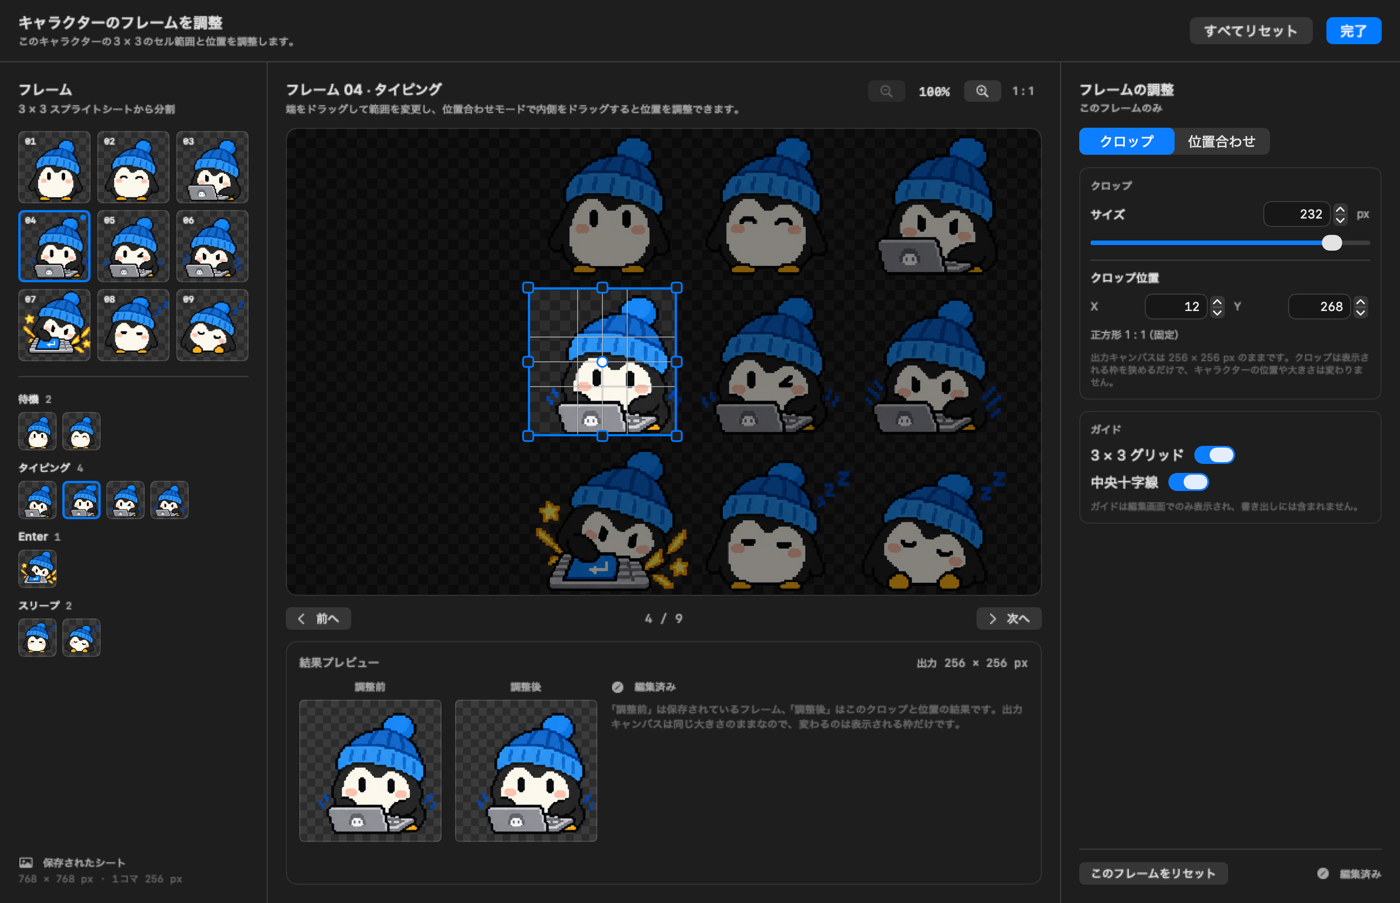
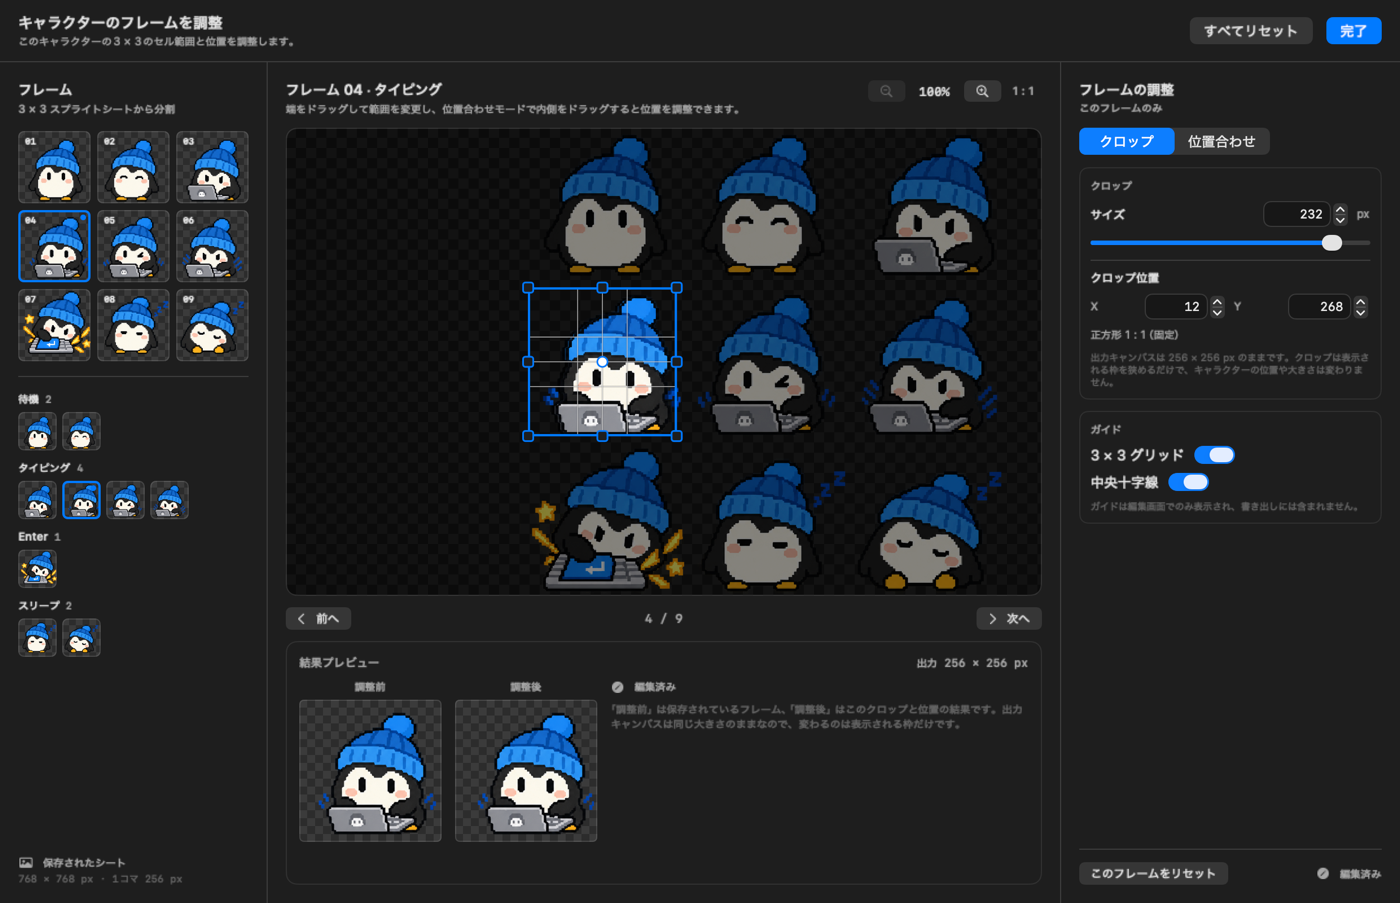
fix(character): keep every crop resize stationary and match canvas export (#151)
Address the pullfrog review findings that are still reproducible on the fixed
canvas editor:

- Handle resize is now centre-anchored (size changes by twice the drag delta, so
  the grabbed edge still follows the pointer) instead of anchoring the opposite
  edge. Resizing therefore only changes the visible mask; surviving pixels keep
  their exported coordinates. Added a renderer regression covering shrink and
  grow with the same source pixel at the same canvas position.
- The precision canvas no longer translates the entire sheet under a stationary
  crop frame. It now draws the dimmed sheet as context, then the selected crop
  pixels as the aligned bright foreground, clipped to the source crop and to the
  fixed output canvas. Neighbouring-cell pixels can no longer appear as selected
  content, and the foreground matches After/export for nonzero offsets.
- The align snapshot now creates its neighbour warning by panning the crop over
  the cell boundary (the old size override was silently capped).
- Add a defensive test that even if a host opened the editor for an unsupported
  legacy frame layout, composing/staging is impossible and the draft cannot be
  truncated. Custom layouts remain blocked in the UI with re-import guidance.

The legacy-surplus finding is therefore resolved by the existing capability
gate (plus the new no-truncation test) rather than by allowing nine-slot edits
that cannot preserve arbitrary extra frames.
[…]

diff --git a/Sources/WaddlyApp/FrameEditorCanvasGeometry.swift b/Sources/WaddlyApp/FrameEditorCanvasGeometry.swift
@@ -99,15 +99,25 @@ extension FrameCanvasNSView {
             width: configuration.sourceSide,
             height: configuration.sourceSide
         )
-        let offset = CGPoint(
-            x: CGFloat(configuration.adjustment.offsetX) * layout.scale,
-            y: CGFloat(configuration.adjustment.offsetY) * layout.scale
-        )
-        NSImage(cgImage: source, size: NSSize(width: source.width, height: source.height))
-            .draw(in: viewRect(for: sourceRect, layout: layout).offsetBy(dx: offset.x, dy: offset.y))
+        let sourceViewRect = viewRect(for: sourceRect, layout: layout)
 
+        // Dimmed sheet context. It stays at its source coordinates so the crop handles, guides and
+        // crosshair remain stable while the selected content moves inside them.
+        drawImage(source, in: sourceViewRect, context: context)
+        drawDimmingOverContext(in: context)
+
+        // Bright foreground: only the selected source window, translated by the alignment offset.
+        // This is exactly the foreground `SpriteFrameRenderer.renderCanvas` exports; neighbouring
+        // sheet pixels outside the crop never become visible inside it.
         let cropRect = cropViewRect(layout: layout)
-        drawDimming(outside: cropRect, in: context)
+        drawAlignedCrop(
+            source,
+            sourceViewRect: sourceViewRect,
+            cropRect: cropRect,
+            configuration: configuration,
+            context: context
+        )
+
         if configuration.showsGrid {
             drawGrid(in: cropRect, context: context)
         }
@@ -116,6 +126,46 @@ extension FrameCanvasNSView {
         }
         drawCropBorder(in: cropRect, context: context, warning: configuration.showsWarning)
         drawHandles(in: cropRect, context: context)
+    }
+
+    private func drawImage(_ image: CGImage, in rect: CGRect, context: NSGraphicsContext) {
+        context.imageInterpolation = .none
+        NSImage(cgImage: image, size: NSSize(width: image.width, height: image.height)).draw(in: rect)
+    }
+
+    /// Draws the crop's own pixels shifted by the alignment offset, clipped to the source crop and
+    /// to the fixed output canvas, exactly like the exported frame's foreground.
+    private func drawAlignedCrop(
+        _ source: CGImage,
+        sourceViewRect: CGRect,
+        cropRect: CGRect,
+        configuration: FrameCanvasConfiguration,
+        context: NSGraphicsContext
+    ) {
+        let scale = configuration.sourceSide > 0
+            ? sourceViewRect.width / CGFloat(configuration.sourceSide)
+            : 1
+        let offset = CGPoint(
+            x: CGFloat(configuration.adjustment.offsetX) * scale,
+            y: CGFloat(configuration.adjustment.offsetY) * scale
+        )
+        let outputSide = configuration.canvasSide > 0
+            ? configuration.canvasSide
+            : (configuration.nominalCell?.size ?? configuration.sourceSide)
+        let outputRect = CGRect(
+            x: cropRect.midX - CGFloat(outputSide) * scale / 2,
+            y: cropRect.midY - CGFloat(outputSide) * scale / 2,
+            width: CGFloat(outputSide) * scale,
+            height: CGFloat(outputSide) * scale
+        )
+        context.cgContext.saveGState()
+        context.cgContext.translateBy(x: offset.x, y: offset.y)
+        // Clips are transformed by the current translation; the source crop keeps neighbour pixels
+        // out, and the output clip mirrors the exported canvas bounds.
+        context.cgContext.clip(to: cropRect)
+        context.cgContext.clip(to: outputRect.offsetBy(dx: -offset.x, dy: -offset.y))
+        drawImage(source, in: sourceViewRect, context: context)
+        context.cgContext.restoreGState()
     }
 
     private func drawBackground(in context: NSGraphicsContext) {
@@ -140,30 +190,9 @@ extension FrameCanvasNSView {
         }
     }
 
-    private func drawDimming(outside cropRect: CGRect, in context: NSGraphicsContext) {
-        let color = NSColor.black.withAlphaComponent(0.55)
-        color.setFill()
-        let pieces = [
-            CGRect(
-                x: bounds.minX, y: bounds.minY,
-                width: bounds.width, height: max(0, cropRect.minY - bounds.minY)
-            ),
-            CGRect(
-                x: bounds.minX, y: cropRect.maxY,
-                width: bounds.width, height: max(0, bounds.maxY - cropRect.maxY)
-            ),
-            CGRect(
-                x: bounds.minX, y: cropRect.minY,
-                width: max(0, cropRect.minX - bounds.minX), height: cropRect.height
-            ),
-            CGRect(
-                x: cropRect.maxX, y: cropRect.minY,
-                width: max(0, bounds.maxX - cropRect.maxX), height: cropRect.height
-            )
-        ]
-        for piece in pieces where piece.width > 0 && piece.height > 0 {
-            piece.fill()
-        }
+    private func drawDimmingOverContext(in context: NSGraphicsContext) {
+        NSColor.black.withAlphaComponent(0.55).setFill()
+        bounds.fill()
         context.shouldAntialias = true
     }
 

diff --git a/Tests/WaddlyCoreTests/SpriteFrameEditorTests.swift b/Tests/WaddlyCoreTests/SpriteFrameEditorTests.swift
@@ -107,42 +107,45 @@ private struct ResizeExpectation {
     let expected: SquareCrop
 }
 
-@Test func resizeHandlesAnchorTheOppositeEdgeOrCorner() {
+@Test func resizeHandlesKeepTheCropCentred() {
     let geometry = spriteTestSheetGeometry()
     let crop = SquareCrop(x: 20, y: 20, size: 20)
     let cases = [
-        ResizeExpectation(handle: .topLeft, deltaX: -5, deltaY: -5, expected: SquareCrop(x: 15, y: 15, size: 25)),
-        ResizeExpectation(handle: .top, deltaX: 0, deltaY: -5, expected: SquareCrop(x: 20, y: 15, size: 25)),
-        ResizeExpectation(handle: .topRight, deltaX: 5, deltaY: -5, expected: SquareCrop(x: 20, y: 15, size: 25)),
-        ResizeExpectation(handle: .right, deltaX: 5, deltaY: 0, expected: SquareCrop(x: 20, y: 20, size: 25)),
-        ResizeExpectation(handle: .bottomRight, deltaX: 5, deltaY: 5, expected: SquareCrop(x: 20, y: 20, size: 25)),
-        ResizeExpectation(handle: .bottom, deltaX: 0, deltaY: 5, expected: SquareCrop(x: 20, y: 20, size: 25)),
-        ResizeExpectation(handle: .bottomLeft, deltaX: -5, deltaY: 5, expected: SquareCrop(x: 15, y: 20, size: 25)),
-        ResizeExpectation(handle: .left, deltaX: -5, deltaY: 0, expected: SquareCrop(x: 15, y: 20, size: 25))
+        ResizeExpectation(handle: .topLeft, deltaX: -5, deltaY: -5, expected: SquareCrop(x: 15, y: 15, size: 30)),
+        ResizeExpectation(handle: .top, deltaX: 0, deltaY: -3, expected: SquareCrop(x: 17, y: 17, size: 26)),
+        ResizeExpectation(handle: .topRight, deltaX: 2, deltaY: -5, expected: SquareCrop(x: 15, y: 15, size: 30)),
+        ResizeExpectation(handle: .right, deltaX: 4, deltaY: 0, expected: SquareCrop(x: 16, y: 16, size: 28)),
+        ResizeExpectation(handle: .bottomRight, deltaX: 5, deltaY: 5, expected: SquareCrop(x: 15, y: 15, size: 30)),
+        ResizeExpectation(handle: .bottom, deltaX: 0, deltaY: -4, expected: SquareCrop(x: 24, y: 24, size: 12)),
+        ResizeExpectation(handle: .bottomLeft, deltaX: -3, deltaY: 5, expected: SquareCrop(x: 15, y: 15, size: 30)),
+        ResizeExpectation(handle: .left, deltaX: -5, deltaY: 0, expected: SquareCrop(x: 15, y: 15, size: 30))
     ]
     #expect(cases.count == SpriteCropHandle.allCases.count)
     for expectation in cases {
-        #expect(geometry.resized(
+        let resized = geometry.resized(
             crop,
             handle: expectation.handle,
             deltaX: expectation.deltaX,
             deltaY: expectation.deltaY
-        ) == expectation.expected)
+        )
+        #expect(resized == expectation.expected)
+        #expect(2 * resized.x + resized.size == 2 * crop.x + crop.size)
+        #expect(2 * resized.y + resized.size == 2 * crop.y + crop.size)
     }
 }
 
 @Test func resizeCornerFollowsTheDominantAxis() {
     let geometry = spriteTestSheetGeometry()
     let crop = SquareCrop(x: 20, y: 20, size: 20)
-    #expect(geometry.resized(crop, handle: .bottomRight, deltaX: 2, deltaY: 7) == SquareCrop(x: 20, y: 20, size: 27))
-    #expect(geometry.resized(crop, handle: .topLeft, deltaX: 7, deltaY: 2) == SquareCrop(x: 27, y: 27, size: 13))
+    #expect(geometry.resized(crop, handle: .bottomRight, deltaX: 2, deltaY: 7) == SquareCrop(x: 13, y: 13, size: 34))
+    #expect(geometry.resized(crop, handle: .topLeft, deltaX: 7, deltaY: 2) == SquareCrop(x: 26, y: 26, size: 8))
 }
 
 @Test func resizeRespectsMinimumSideAndSourceBounds() {
     let geometry = spriteTestSheetGeometry()
     let crop = SquareCrop(x: 20, y: 20, size: 20)
     let shrunk = geometry.resized(crop, handle: .right, deltaX: -100, deltaY: 0)
-    #expect(shrunk == SquareCrop(x: 20, y: 20, size: geometry.minimumSide))
+    #expect(shrunk == SquareCrop(x: 26, y: 26, size: geometry.minimumSide))
     let expanded = geometry.resized(crop, handle: .left, deltaX: -100, deltaY: 0)
     #expect(expanded == SquareCrop(x: 0, y: 0, size: 60))
 }

diff --git a/Sources/WaddlyCore/SpriteFrameEditor.swift b/Sources/WaddlyCore/SpriteFrameEditor.swift
@@ -149,10 +149,13 @@ public struct FrameEditGeometry: Equatable, Sendable {
         return SquareCrop(x: originX, y: originY, size: side)
     }
 
-    /// Resizes `crop` from `handle`, keeping it square and anchoring the opposite edge or corner.
+    /// Resizes `crop` from `handle`, keeping it square and anchored at its centre.
     ///
-    /// Corner drags follow the dominant axis so a diagonal drag never double-applies both deltas.
-    /// The result is then clamped into the source bounds.
+    /// Dragging an edge or corner changes the size symmetrically around the crop centre, so the
+    /// source pixels surviving a resize stay at the same canvas coordinates (only the visible mask
+    /// narrows or widens). The dragged edge still follows the pointer because the size changes by
+    /// twice the drag delta. Corner drags follow the dominant axis so a diagonal drag never
+    /// double-applies both deltas. The result is then clamped into the source bounds.
     public func resized(
         _ crop: SquareCrop,
         handle: SpriteCropHandle,
@@ -160,21 +163,11 @@ public struct FrameEditGeometry: Equatable, Sendable {
         deltaY: Int
     ) -> SquareCrop {
         let growth = growth(handle: handle, deltaX: deltaX, deltaY: deltaY)
-        let newSize = max(crop.size + growth, effectiveMinimumSide)
-        var newX = crop.x
-        var newY = crop.y
-        switch handle {
-        case .topLeft, .left, .bottomLeft:
-            newX = crop.x + crop.size - newSize
-        case .topRight, .right, .bottomRight, .top, .bottom:
-            newX = crop.x
-        }
-        switch handle {
-        case .topLeft, .top, .topRight:
-            newY = crop.y + crop.size - newSize
-        case .bottomLeft, .bottom, .bottomRight, .left, .right:
-            newY = crop.y
-        }
+        let newSize = min(max(crop.size + growth * 2, effectiveMinimumSide), sourceSide)
+        let centerX = 2 * crop.x + crop.size
+        let centerY = 2 * crop.y + crop.size
+        let newX = (centerX - newSize + 1) / 2
+        let newY = (centerY - newSize + 1) / 2
         return clamp(SquareCrop(x: newX, y: newY, size: newSize))
     }
 

diff --git a/Tests/WaddlyCoreTests/SpriteFrameRendererTests.swift b/Tests/WaddlyCoreTests/SpriteFrameRendererTests.swift
@@ -239,3 +239,38 @@ import WaddlyCore
     #expect(PetFrameSourceDecoder.sheetImage(from: Data()) == nil)
     #expect(PetFrameSourceDecoder.sheetImage(from: Data("not a PNG".utf8)) == nil)
 }
+
+@Test func canvasHandleResizeKeepsSurvivingPixelsInPlace() throws {
+    let sheet = try #require(spriteTestSolidSheet())
+    let editing = spriteTestSheetEditing()
+    let slot = SpriteFrameSlot.typing1
+    let geometry = editing.geometry(for: slot)
+    let baseline = editing.adjustment(for: slot)
+    let color = spriteTestCellColors[slot.rawValue]
+    let before = try #require(SpriteFrameRenderer.renderCanvas(
+        source: sheet,
+        adjustment: baseline,
+        canvasSide: 60
+    ))
+    #expect(spriteTestPixel(of: before, column: 30, row: 30) == color)
+
+    for delta in [-5, 5] {
+        let resizedCrop = geometry.resized(
+            baseline.crop,
+            handle: .right,
+            deltaX: delta,
+            deltaY: 0
+        )
+        let resized = FrameAdjustment(crop: resizedCrop, offsetX: 0, offsetY: 0)
+        let after = try #require(SpriteFrameRenderer.renderCanvas(
+            source: sheet,
+            adjustment: resized,
+            canvasSide: 60
+        ))
+        // Centre-anchored handle resize only changes the mask: the surviving source pixels stay at
+        // the same output coordinates instead of sliding by half the size delta.
+        #expect(spriteTestPixel(of: after, column: 30, row: 30) == color)
+        #expect(after.width == 60)
+        #expect(after.height == 60)
+    }
+}

diff --git a/Tests/WaddlyAppTests/CharacterFrameEditorModelTests.swift b/Tests/WaddlyAppTests/CharacterFrameEditorModelTests.swift
@@ -142,6 +142,31 @@ import WaddlyCore
         #expect(weakSheet == nil)
     }
 
+    /// Even if a future host opened the editor for a custom frame layout, it must not compose or
+    /// stage a truncated nine-frame draft over the user's saved frames.
+    @Test func unsupportedLegacyLayoutCannotStageATruncatedDraft() async throws {
+        var frames = try SetupWizardFixture.sheetImages()
+        frames[.idle].append(frames[.typing][0])
+        frames[.typing].removeFirst()
+        frames[.typing].removeFirst()
+        let importModel = CharacterImportModel(
+            currentImages: { frames },
+            commit: { _ in .committed }
+        )
+        importModel.reload()
+        let before = try #require(importModel.stagedFrames)
+        let editor = try CharacterFrameEditorModel(
+            importModel: importModel,
+            localization: makeLocalization()
+        )
+        await editor.prepare()
+
+        #expect(editor.editing == nil)
+        #expect(editor.composeFailed)
+        #expect(await !editor.stageIntoDraft())
+        #expect(try CharacterImportModel.sameFrames(#require(importModel.stagedFrames), before))
+    }
+
     /// Older releases allowed custom frame counts. They must not fall into an editor that can only
     /// fail; the shared screen explains the re-import path instead.
     @Test func customLegacyFrameLayoutIsNotAdjustable() throws {

diff --git a/Tests/WaddlyAppTests/CharacterImportSnapshotTests.swift b/Tests/WaddlyAppTests/CharacterImportSnapshotTests.swift
@@ -201,7 +201,8 @@ private extension CharacterImportSnapshotTests {
 
         editor.tool = .align
         editor.select(.typing1)
-        editor.setCropSize(candidate.cellSize + 48)
+        // Shift the crop window across the cell boundary to show the neighbouring-cell warning.
+        editor.setCropOriginX(512 - 20)
         editor.setOffsetY(-8)
         try writeEditor(editor, localization: localization, dark: dark, named: "frame-editor-align-\(tag)")
     }

diff --git a/Sources/WaddlyApp/FrameEditorCenterColumn.swift b/Sources/WaddlyApp/FrameEditorCenterColumn.swift
@@ -39,6 +39,7 @@ struct FrameEditorCenterColumn: View {
         FrameCanvasConfiguration(
             source: model.currentSourceImage,
             sourceSide: model.geometry?.sourceSide ?? 1,
+            canvasSide: model.outputSide,
             nominalCell: model.geometry?.nominalCell,
             adjustment: model.currentAdjustment,
             tool: model.tool,

diff --git a/Sources/WaddlyApp/FrameEditorCanvas.swift b/Sources/WaddlyApp/FrameEditorCanvas.swift
@@ -7,6 +7,7 @@ import WaddlyCore
 struct FrameCanvasConfiguration {
     var source: CGImage?
     var sourceSide: Int
+    var canvasSide: Int = 0
     var nominalCell: SquareCrop?
     var adjustment: FrameAdjustment
     var tool: FrameEditorTool
